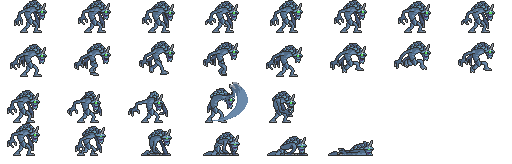
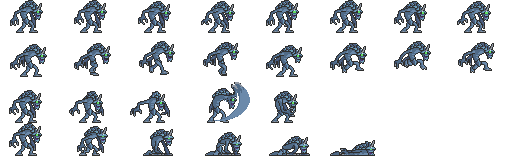
added damage on monsters
added death to monsters

upd. death to monsters (death monsters)

diff --git a/classes.py b/classes.py
@@ -2,14 +2,14 @@ from pygame import sprite, Rect
 import pygame
 from other_functions import load_image
 from managers import DatabaseManager
-from constants import FRAME_TIME, SIZE
+from constants import CHARACTERS_FRAME_TIME, ENEMY_FRAME_TIME, SIZE
 
 
 class Character(sprite.Sprite):
     def __init__(self, position: (int, int)):
         super().__init__()
         self.character_id = DatabaseManager.get_current_character_id()
-        self.frame_time = FRAME_TIME
+        self.frame_time = CHARACTERS_FRAME_TIME
         self.is_detected = False
 
         self.scale = 0.3
@@ -22,11 +22,11 @@ class Character(sprite.Sprite):
         self.mask = pygame.mask.from_surface(self.image)
 
         self._setup_character_characteristic()
-        self.speed *= 150
+        self.speed *= 100
 
     def _setup_character_characteristic(self) -> None:
         self.name, self.health, self.damage, self.speed = DatabaseManager.get_characteristics_character()
-        # print(self.name, self.health, self.damage, self.speed) # log
+        print(self.name, self.health, self.damage, self.speed)  # log
 
     def _create_frames(self) -> None:
         atlas = load_image(f'char_{self.character_id}.png', 'characters')
@@ -92,12 +92,19 @@ class Enemy(sprite.Sprite):
     def __init__(self, enemy_id: int, position: (int, int)):
         super().__init__()
         self.enemy_id = enemy_id
-        self.frame_time = FRAME_TIME
+        self.frame_time = ENEMY_FRAME_TIME
         self.is_attacking = False
+        self.is_alive = True
+        self.full_death_animation = False
+        self.index_frame = 0
+        self.timedelta = 0
+        self.distance_visible = 150
 
         self._setup_enemy_characteristic()
         self._create_frames()
         self.image = self.stand_frames[0]
+        self.current_type_frame = self.stand_frames
+
         self.rect = self.image.get_rect()
         self.mask = pygame.mask.from_surface(self.image)
         self.rect.x, self.rect.y = position
@@ -105,7 +112,7 @@ class Enemy(sprite.Sprite):
     def _setup_enemy_characteristic(self) -> None:
         self.scale = 2
         self.name, self.health, self.damage, self.speed = DatabaseManager.get_characteristics_enemy_by_id(self.enemy_id)
-        # print(self.name, self.health, self.damage, self.speed) # log
+        print(self.name, self.health, self.damage, self.speed)  # log
 
     def _create_frames(self):
         quan_walking, quan_attack, quan_death, quan_stand, quan_kinds = (
@@ -113,37 +120,71 @@ class Enemy(sprite.Sprite):
         atlas = load_image(f'enemy_{self.enemy_id}.png', 'enemies')
         atlas_width = atlas.get_width()
         atlas_height = atlas.get_height()
-        frame_width = atlas_width / max(quan_walking, quan_attack, quan_death)
+        frame_width = atlas_width / max(quan_walking, quan_attack, quan_death, quan_stand)
         frame_height = atlas_height / quan_kinds
         self.rect = Rect(0, 0, frame_width, frame_height)
         self.stand_frames = [pygame.transform.rotozoom(
-            atlas.subsurface(frame_width * i, frame_height * 0, frame_width, frame_height), 0, self.scale)
-            for i in range(0, 3)]
-        self.walking_frames = [pygame.transform.rotozoom(
-            atlas.subsurface(frame_width * i, frame_height * 1, frame_width, frame_height), 0, self.scale)
-            for i in range(0, 3)]
+            atlas.subsurface(frame_width * i, 0, frame_width, frame_height), 0, self.scale)
+            for i in range(0, quan_stand)]
+        self.right_walking_frames = [pygame.transform.rotozoom(
+            atlas.subsurface(frame_width * i, frame_height, frame_width, frame_height), 0, self.scale)
+            for i in range(0, quan_walking)]
         self.attack_frames = [pygame.transform.rotozoom(
             atlas.subsurface(frame_width * i, frame_height * 2, frame_width, frame_height), 0, self.scale)
-            for i in range(0, 3)]
+            for i in range(0, quan_attack)]
         self.death_frames = [pygame.transform.rotozoom(
             atlas.subsurface(frame_width * i, frame_height * 3, frame_width, frame_height), 0, self.scale)
-            for i in range(0, 3)]
+            for i in range(0, quan_death)]
+        self.left_walking_frames = list(map(lambda x: pygame.transform.flip(
+                        x,
+                        True, False), self.right_walking_frames))
 
-    def update(self, player):
-        # print(player)
-        distance_visible = 150
-        if not self.is_attacking and ((self.rect.x - player.rect.x) ** 2 + (
-                self.rect.y - player.rect.y) ** 2) ** 0.5 < distance_visible:
-            self.is_attacking = True
-        if self.is_attacking:
-            if self.rect.x > player.rect.x:
-                self.rect.x -= 1
+
+    def update(self, player, timedelta):
+        if self.is_alive:
+            if not self.is_attacking and ((self.rect.x - player.rect.x) ** 2 + (
+                    self.rect.y - player.rect.y) ** 2) ** 0.5 < self.distance_visible:
+                self.is_attacking = True
+            if self.is_attacking:
+                if self.rect.x > player.rect.x:
+                    self.rect.x -= 1
+                    self.edit_current_frames('left')
+                elif self.rect.x < player.rect.x:
+                    self.rect.x += 1
+                    self.edit_current_frames('righta')
+                if self.rect.y > player.rect.y:
+                    self.rect.y -= 1
+                elif self.rect.y < player.rect.y:
+                    self.rect.y += 1
+        elif self.current_type_frame != self.death_frames:
+            self.edit_current_frames('death')
+        elif self.index_frame == len(self.death_frames) - 1:
+            self.full_death_animation = True
+
+        if self.is_alive or not self.full_death_animation:
+            if self.timedelta < self.frame_time:
+                self.timedelta += timedelta
             else:
-                self.rect.x += 1
-            if self.rect.y > player.rect.y:
-                self.rect.y -= 1
-            else:
-                self.rect.y += 1
+                self.index_frame = (self.index_frame + 1) % len(self.current_type_frame)
+                self.timedelta = 0
+        # print(self.index_frame, self.current_type_frame) # log
+
+        self.image = self.current_type_frame[self.index_frame]
+
+
+    def edit_current_frames(self, mode=None):
+        if mode == 'death' and self.current_type_frame != self.death_frames:
+            self.current_type_frame = self.death_frames
+            self.index_frame = 0
+        elif mode == 'left' and self.current_type_frame != self.left_walking_frames:
+            self.current_type_frame = self.left_walking_frames
+        elif mode == 'right' and self.current_type_frame != self.right_walking_frames:
+            self.current_type_frame = self.right_walking_frames
+
+    def take_damage(self, damager):
+        self.health -= damager.damage
+        if self.health <= 0:
+            self.is_alive = False
 
 
 class Camera:
@@ -161,3 +202,14 @@ class Camera:
     def update(self, target):
         self.dx = SIZE[0] // 2 - (target.rect.x + target.rect.w // 2)
         self.dy = SIZE[1] // 2 - (target.rect.y + target.rect.h // 2)
+
+
+class Cursor(pygame.sprite.Sprite):
+    def __init__(self):
+        super().__init__()
+        self.image = load_image('cursor.png', 'hud')
+        self.rect = self.image.get_rect()
+        self.mask = pygame.mask.from_surface(self.image)
+
+    def update(self, pos: (int, int)):
+        self.rect.x, self.rect.y = pos[0] - self.rect.width // 2, pos[1] - self.rect.height // 2

diff --git a/main.py b/main.py
@@ -3,7 +3,7 @@ import pygame_gui
 import pytmx
 from constants import *
 from managers import GuiManager, DatabaseManager, SpriteGroupManager
-from classes import Character, Camera, Enemy
+from classes import Character, Camera, Enemy, Cursor
 from other_functions import load_image
 
 
@@ -17,9 +17,11 @@ class Game:
 
         # init classes
         self.gui_manager = GuiManager()
+        self.sprite_group_manager = SpriteGroupManager()
         self.clock = pygame.time.Clock()
         self.camera = Camera()
-        self.sprite_group_manager = SpriteGroupManager()
+        self.cursor = Cursor()
+        self.sprite_group_manager.add_cursor_sprite(self.cursor)
 
         # init variables
         # self.group_hud = pygame.sprite.Group()
@@ -59,17 +61,23 @@ class Game:
             self.running = False
         if event.type == pygame.MOUSEMOTION:
             if self.flag_create_game_cursor:
-                self.cursor.rect.x, self.cursor.rect.y = event.pos
-        if event.type == pygame.MOUSEBUTTONUP:
+                self.cursor.update(event.pos)
+        if event.type == pygame.MOUSEBUTTONDOWN:
+            if self.is_going_game:
+                for enemy in self.sprite_group_manager.enemies.sprites():
+                    # print('iter')
+                    if pygame.sprite.collide_mask(self.cursor, enemy):
+                        enemy.take_damage(self.player)
+                        print(enemy.health)
+                        print(111)
+
             print(event.pos)
         if event.type == pygame_gui.UI_BUTTON_PRESSED:  # Обработка нажатий кнопок GUI
             print(222)  # log
             if event.ui_element == self.gui_manager.button_start:
                 self.gui_manager.kill_start_menu()
                 print(111)  # log
-                self.create_cursor_image()
                 self._start_level()
-
 
     def _update(self):
         """Обновление"""
@@ -89,6 +97,10 @@ class Game:
 
     def _start_level(self):
         """Создание уровня"""
+
+        self.flag_create_game_cursor = True
+        pygame.mouse.set_visible(False)
+
         self.is_going_game = True
         # self._create_hud()
         self.map = pytmx.load_pygame('tmx/test_map.tmx')
@@ -129,12 +141,6 @@ class Game:
         # self.gen_hud.rect.x, self.gen_hud.rect.y = 150, 580
         pass
 
-    def create_cursor_image(self):
-        self.flag_create_game_cursor = True
-        self.cursor = pygame.sprite.Sprite()
-        self.cursor.image = load_image('cursor.png', 'hud')
-        self.cursor.rect = self.cursor.image.get_rect()
-        self.sprite_group_manager.add_cursor_sprite(self.cursor)
 
 if __name__ == '__main__':
     game = Game()

diff --git a/managers.py b/managers.py
@@ -143,7 +143,7 @@ class SpriteGroupManager:
     def update(self, is_going_game: bool, timedelta: float) -> None:
         if is_going_game:
             self.player.update(timedelta=timedelta, mode='update', group_walls=self.walls)
-            self.enemies.update(*self.player.sprites())
+            self.enemies.update(*self.player.sprites(), timedelta)
 
     def draw(self, screen, is_going_game: bool) -> None:
         if is_going_game:

diff --git a/constants.py b/constants.py
@@ -3,7 +3,10 @@ SIZE = WIDTH, HEIGHT = 900, 700
 FILENAME_DATABASE = 'database.sqlite'
 
 # Characters
-FRAME_TIME = 0.08
+CHARACTERS_FRAME_TIME = 0.08
+
+# Enemy
+ENEMY_FRAME_TIME = 0.2
 
 # Map
 SCALE_MAP = 1.5
